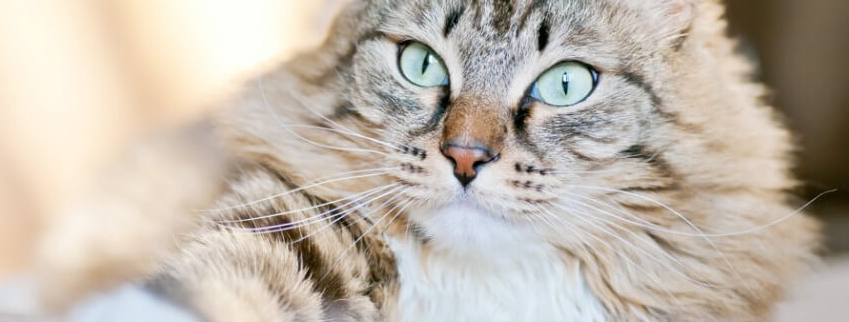
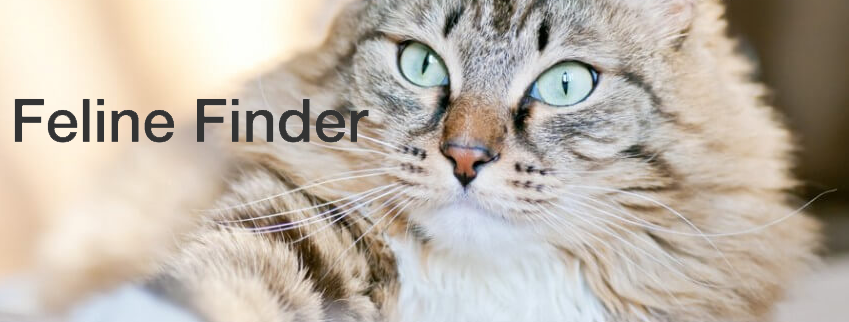
fiddled with bootstrap to get map, input fields and cats aligned. changed the header picture and embiggened it

Changed region(s): [[0.0, 0.3106, 0.4594, 0.4658]]

diff --git a/views/index.html b/views/index.html
@@ -30,8 +30,8 @@
     <a name="jump"><div class="pop hidden"></a>
       <button name = "button" class="close">Close</button>
       <h2>
-            <p>We are so sorry you've lost your pet.</p>
-            <p>Please post your pets picture along with your email address</p>
+            <p>Use the map to locate pet adoption centers and other pet-related businesses in the Bay Area.</p>
+            <p>If your pet has lost his way home, please post your pets picture along with your email address</p>
             <p>If you've found your pet, simply click "I Found This Pet"</p>
             <p>and it will delete your pets form from our site.</p>
       </h2>
@@ -40,18 +40,16 @@
   </div>
 
   <!-- BEGIN HANDLEBARS - CAROUSEL IS COMMENTED OUT FOR NOW -->
-  <div class="container">
-    <div class="jumbotron">
-          <h1>Feline Finder</h1>
-        </div>
-      </div>
+    <header class="header">
+        <img src="/images/cat.png">
+    </header>
 
-  <div class="col-md-12 col-md-offset-2">
-      <div id="map"></div>
-  </div>
+    <div class="col-md-12">
+        <div id="map"></div>
+    </div>
 
       <div class="row">
-        <div class="col-md-12 col-md-offset-4">
+        <div class="col-md-7 col-md-offset-5">
           <form action="/" method="post" class="form-horizontal" id="newCatForm">
             <fieldset>
 

diff --git a/public/styles/styles.css b/public/styles/styles.css
@@ -1,26 +1,31 @@
-html, body {
-  height: 100%;
+body {
   margin: 0;
   padding: 0;
+  max-width: 1200px;
 }
 
 div#map {
-height: 400px;
-width: 800px;
-margin-bottom: 1%;
+  height: 450px;
+  width: 600px;
+  border-radius: 15px;
+  margin: 3% auto auto auto;
 }
 
-fieldset {
+fieldset{
+  margin-top: 75px;
+  margin-bottom: 15px;
+}
+img{
+  border-radius: 15px;
+}
+button{
+  margin: 5px 5px 5px 5px;
+}
+.header img{
+  border-radius: 15px;
   width: 100%;
-}
-.jumbotron {
-  background-image: url(/images/cat.png);
-  background-size: cover;
-  background-repeat: no-repeat;
-  color: black;
-}
-.jumbotron .container {
-  height: 400px;
+  height: auto;
+  margin: 0 3% 0 3%;
 }
 
 .inline-header {
@@ -43,7 +48,7 @@ h2{
 .pop{
   position: fixed;
   height: 400px;
-  width: 95%;
+  width: 90%;
   background-color: white;
   z-index: 3;
 }

diff --git a/models/index.js b/models/index.js
@@ -1,9 +1,9 @@
 // Update your database connection to point to Heroku's database
 var mongoose = require("mongoose");
-// mongoose.connect("mongodb://localhost/project-01");
-mongoose.connect( process.env.MONGOLAB_URI ||
-                      process.env.MONGOHQ_URL ||
-                      "mongodb://localhost/project-01" );
+mongoose.connect("mongodb://localhost/project-01");
+// mongoose.connect( process.env.MONGOLAB_URI ||
+//                       process.env.MONGOHQ_URL ||
+//                       "mongodb://localhost/project-01" );
 
 var Cat = require('./cat');
 
